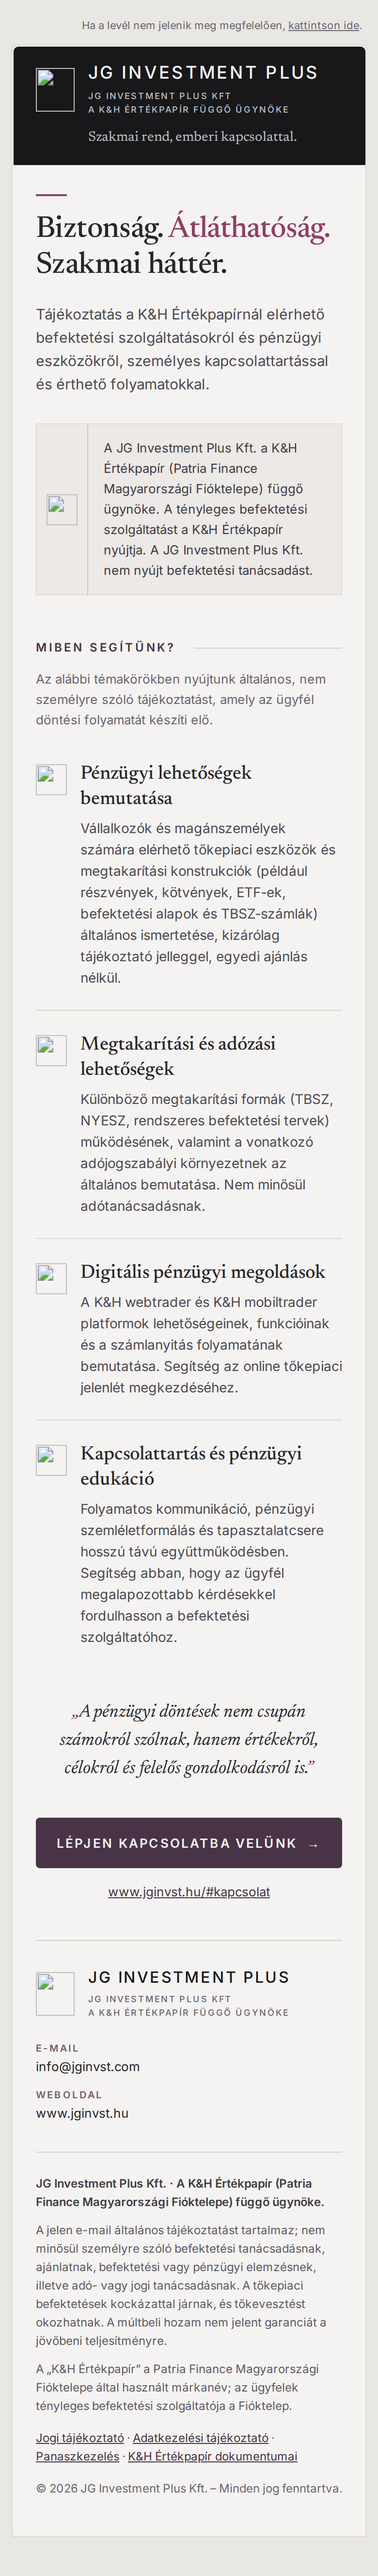
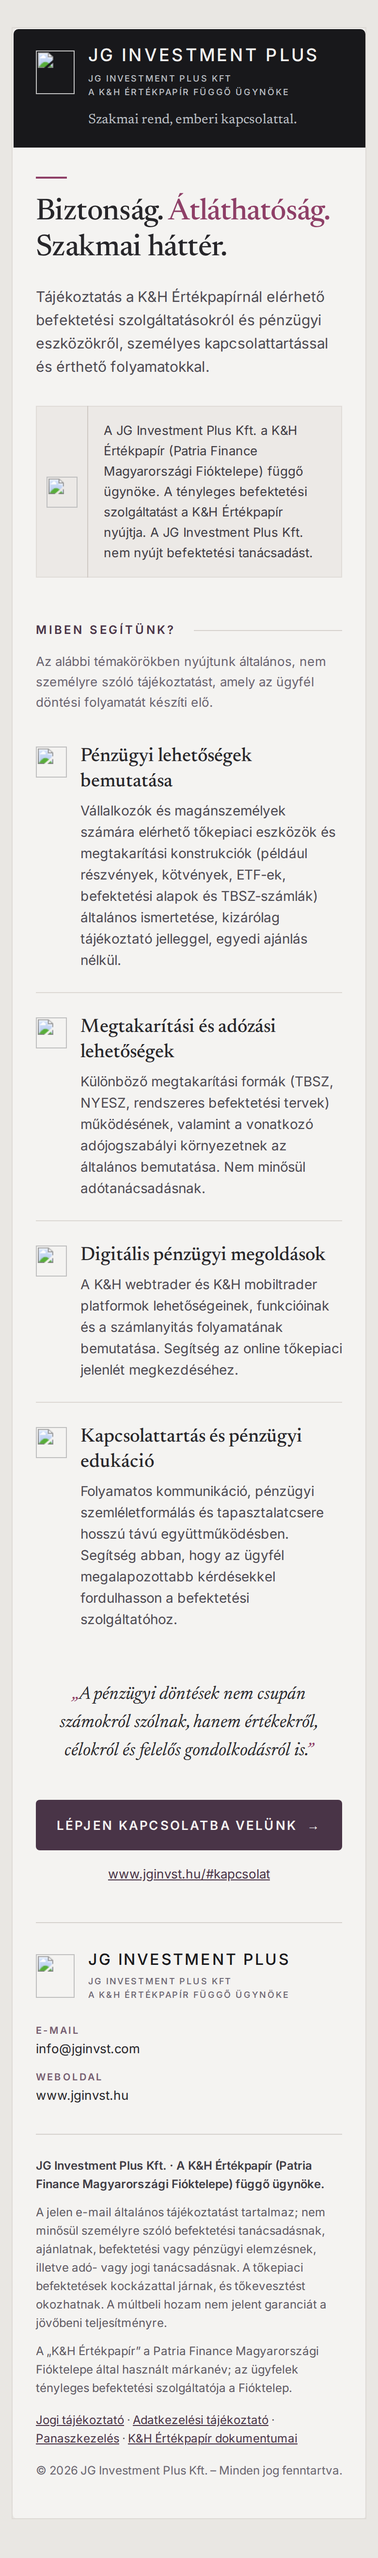
refactor(email): switch assets to cid inline images
The email no longer depends on images hosted on the website. Every <img>
now references a CID inline MIME part (cid:jgMarkPorcelain, cid:jgMarkCarbon,
cid:noticeIcon, cid:opportunitiesIcon, cid:savingsIcon, cid:digitalIcon,
cid:relationshipIcon); the locked map lives in emails/scripts/cid-assets.mjs.

The PNGs move from public/email/ to the private emails/assets/ (bytes
unchanged, still rendered from the canonical JG mark geometry), and the
public review page moves from public/email-preview/ to the local-only
emails/preview/. With no public online version, the view-in-browser line
and {{VIEW_ONLINE_URL}} are removed from the HTML and plain text; the rest
of the approved email is unchanged.

Claude-Session: https://claude.ai/code/session_01LVmGb4xvyEXar82wYXxNQR

diff --git a/emails/preview/jg-introduction-v2.preview.html b/emails/preview/jg-introduction-v2.preview.html
@@ -2,12 +2,12 @@
 <html lang="hu" xmlns="http://www.w3.org/1999/xhtml" xmlns:v="urn:schemas-microsoft-com:vml" xmlns:o="urn:schemas-microsoft-com:office:office">
 <head>
 <!--
-  REVIEW PREVIEW — generated by emails/scripts/build-preview.mjs. NOT the send template; do not send this file.
+  LOCAL PREVIEW — generated by emails/scripts/build-preview.mjs. NOT the send template; do not send or publish this file.
   JG Investment Plus — bemutatkozó e-mail v2
   STÁTUSZ: COMPLIANCE REVIEW REQUIRED BEFORE EXTERNAL USE
-  Tartalmi forrás: src/content/homepage.ts · Logó: JG Logo System v1.0 (public/email/*, a kanonikus SVG-ből renderelve)
-  Képek: /email/ (élesben csak a feature branch merge + production deploy után érhetők el)
-  Helyőrző küldés előtt: # — ld. emails/README.md
+  Tartalmi forrás: src/content/homepage.ts · Logó: JG Logo System v1.0 (a kanonikus SVG-ből renderelve)
+  Képek: CID inline MIME képek (cid:…) — emails/assets/, ld. emails/scripts/cid-assets.mjs. Nincs publikus képhosting.
+  Kézbesítés: Google Apps Script → Gmail PISZKOZAT → emberi ellenőrzés → kézi küldés (emails/apps-script/)
 -->
 <meta charset="utf-8">
 <meta name="robots" content="noindex, nofollow">
@@ -70,17 +70,10 @@
 <div role="article" aria-roledescription="email" aria-label="JG Investment Plus" lang="hu" style="background-color:#E9E7E3;">
 <table role="presentation" width="100%" cellpadding="0" cellspacing="0" border="0" style="background-color:#E9E7E3;">
 <tr>
-<td align="center" class="outer-pad" style="padding:0 16px 40px 16px;">
+<td align="center" class="outer-pad" style="padding:28px 16px 40px 16px;">
 
 <!--[if mso]><table role="presentation" width="640" cellpadding="0" cellspacing="0" border="0" align="center"><tr><td><![endif]-->
 <table role="presentation" class="wrap" width="640" cellpadding="0" cellspacing="0" border="0" align="center" style="width:640px; max-width:640px;">
-
-  <!-- ============ VIEW-IN-BROWSER ============ -->
-  <tr>
-    <td align="right" style="padding:18px 4px 12px 4px; font-family:Inter, Arial, Helvetica, sans-serif; font-size:11px; line-height:16px; color:#6A6670;">
-      Ha a levél nem jelenik meg megfelelően, <a href="#" style="color:#6A6670; text-decoration:underline;">kattintson ide</a>.
-    </td>
-  </tr>
 
   <tr>
     <td style="background-color:#F4F3F1; border:1px solid #DEDAD6; border-radius:6px; overflow:hidden;">
@@ -95,7 +88,7 @@
                 <table role="presentation" cellpadding="0" cellspacing="0" border="0">
                   <tr>
                     <td valign="middle" width="40" style="width:40px; vertical-align:middle;">
-                      <img src="/email/jg-mark-porcelain@2x.png" width="40" height="45" alt="" style="display:block; width:40px; height:45px; background-color:#18181B;">
+                      <img src="../assets/jg-mark-porcelain@2x.png" width="40" height="45" alt="" style="display:block; width:40px; height:45px; background-color:#18181B;">
                     </td>
                     <td width="14" style="width:14px; font-size:0; line-height:0;">&nbsp;</td>
                     <td valign="middle" style="vertical-align:middle;">
@@ -132,7 +125,7 @@
           <table role="presentation" width="100%" cellpadding="0" cellspacing="0" border="0" bgcolor="#ECE9E6" style="background-color:#ECE9E6; border:1px solid #E0DCD8; border-radius:4px;">
             <tr>
               <td class="notice-icon" width="70" align="center" valign="middle" style="width:70px; vertical-align:middle; padding:18px 0;">
-                <img src="/email/icons/notice.png" width="32" height="32" alt="" style="display:block; width:32px; height:32px; margin:0 auto;">
+                <img src="../assets/icons/notice.png" width="32" height="32" alt="" style="display:block; width:32px; height:32px; margin:0 auto;">
               </td>
               <td class="notice-text" valign="middle" style="vertical-align:middle; padding:16px 22px 16px 20px; border-left:1px solid #CFCAC5; font-family:Inter, Arial, Helvetica, sans-serif; font-size:13px; line-height:21px; color:#3F3C44;">
                 A JG Investment Plus Kft. a K&amp;H Értékpapír (Patria Finance Magyarországi Fióktelepe) függő ügynöke. A tényleges befektetési szolgáltatást a K&amp;H Értékpapír nyújtja. A JG Investment Plus Kft. nem nyújt befektetési tanácsadást.
@@ -166,7 +159,7 @@
                 <table role="presentation" width="100%" cellpadding="0" cellspacing="0" border="0">
                   <tr>
                     <td class="icon-col" width="58" valign="top" style="width:58px; vertical-align:top; padding-top:3px;">
-                      <img src="/email/icons/opportunities.png" width="32" height="32" alt="" style="display:block; width:32px; height:32px;">
+                      <img src="../assets/icons/opportunities.png" width="32" height="32" alt="" style="display:block; width:32px; height:32px;">
                     </td>
                     <td valign="top" style="vertical-align:top;">
                       <h2 class="serif" style="margin:0; font-family:Newsreader, Georgia, 'Times New Roman', serif; font-size:20px; line-height:26px; font-weight:500; color:#27262A;">Pénzügyi lehetőségek bemutatása</h2>
@@ -182,7 +175,7 @@
                 <table role="presentation" width="100%" cellpadding="0" cellspacing="0" border="0">
                   <tr>
                     <td class="icon-col" width="58" valign="top" style="width:58px; vertical-align:top; padding-top:3px;">
-                      <img src="/email/icons/savings.png" width="32" height="32" alt="" style="display:block; width:32px; height:32px;">
+                      <img src="../assets/icons/savings.png" width="32" height="32" alt="" style="display:block; width:32px; height:32px;">
                     </td>
                     <td valign="top" style="vertical-align:top;">
                       <h2 class="serif" style="margin:0; font-family:Newsreader, Georgia, 'Times New Roman', serif; font-size:20px; line-height:26px; font-weight:500; color:#27262A;">Megtakarítási és adózási lehetőségek</h2>
@@ -198,7 +191,7 @@
                 <table role="presentation" width="100%" cellpadding="0" cellspacing="0" border="0">
                   <tr>
                     <td class="icon-col" width="58" valign="top" style="width:58px; vertical-align:top; padding-top:3px;">
-                      <img src="/email/icons/digital.png" width="32" height="32" alt="" style="display:block; width:32px; height:32px;">
+                      <img src="../assets/icons/digital.png" width="32" height="32" alt="" style="display:block; width:32px; height:32px;">
                     </td>
                     <td valign="top" style="vertical-align:top;">
                       <h2 class="serif" style="margin:0; font-family:Newsreader, Georgia, 'Times New Roman', serif; font-size:20px; line-height:26px; font-weight:500; color:#27262A;">Digitális pénzügyi megoldások</h2>
@@ -214,7 +207,7 @@
                 <table role="presentation" width="100%" cellpadding="0" cellspacing="0" border="0">
                   <tr>
                     <td class="icon-col" width="58" valign="top" style="width:58px; vertical-align:top; padding-top:3px;">
-                      <img src="/email/icons/relationship.png" width="32" height="32" alt="" style="display:block; width:32px; height:32px;">
+                      <img src="../assets/icons/relationship.png" width="32" height="32" alt="" style="display:block; width:32px; height:32px;">
                     </td>
                     <td valign="top" style="vertical-align:top;">
                       <h2 class="serif" style="margin:0; font-family:Newsreader, Georgia, 'Times New Roman', serif; font-size:20px; line-height:26px; font-weight:500; color:#27262A;">Kapcsolattartás és pénzügyi edukáció</h2>
@@ -274,7 +267,7 @@
                 <table role="presentation" cellpadding="0" cellspacing="0" border="0">
                   <tr>
                     <td valign="middle" width="40" style="width:40px; vertical-align:middle;">
-                      <img src="/email/jg-mark-carbon@2x.png" width="40" height="45" alt="" style="display:block; width:40px; height:45px;">
+                      <img src="../assets/jg-mark-carbon@2x.png" width="40" height="45" alt="" style="display:block; width:40px; height:45px;">
                     </td>
                     <td width="14" style="width:14px; font-size:0; line-height:0;">&nbsp;</td>
                     <td valign="middle" style="vertical-align:middle;">

diff --git a/emails/jg-introduction-v2.html b/emails/jg-introduction-v2.html
@@ -4,9 +4,9 @@
 <!--
   JG Investment Plus — bemutatkozó e-mail v2
   STÁTUSZ: COMPLIANCE REVIEW REQUIRED BEFORE EXTERNAL USE
-  Tartalmi forrás: src/content/homepage.ts · Logó: JG Logo System v1.0 (public/email/*, a kanonikus SVG-ből renderelve)
-  Képek: https://www.jginvst.hu/email/ (élesben csak a feature branch merge + production deploy után érhetők el)
-  Helyőrző küldés előtt: {{VIEW_ONLINE_URL}} — ld. emails/README.md
+  Tartalmi forrás: src/content/homepage.ts · Logó: JG Logo System v1.0 (a kanonikus SVG-ből renderelve)
+  Képek: CID inline MIME képek (cid:…) — emails/assets/, ld. emails/scripts/cid-assets.mjs. Nincs publikus képhosting.
+  Kézbesítés: Google Apps Script → Gmail PISZKOZAT → emberi ellenőrzés → kézi küldés (emails/apps-script/)
 -->
 <meta charset="utf-8">
 <meta name="viewport" content="width=device-width, initial-scale=1">
@@ -68,17 +68,10 @@
 <div role="article" aria-roledescription="email" aria-label="JG Investment Plus" lang="hu" style="background-color:#E9E7E3;">
 <table role="presentation" width="100%" cellpadding="0" cellspacing="0" border="0" style="background-color:#E9E7E3;">
 <tr>
-<td align="center" class="outer-pad" style="padding:0 16px 40px 16px;">
+<td align="center" class="outer-pad" style="padding:28px 16px 40px 16px;">
 
 <!--[if mso]><table role="presentation" width="640" cellpadding="0" cellspacing="0" border="0" align="center"><tr><td><![endif]-->
 <table role="presentation" class="wrap" width="640" cellpadding="0" cellspacing="0" border="0" align="center" style="width:640px; max-width:640px;">
-
-  <!-- ============ VIEW-IN-BROWSER ============ -->
-  <tr>
-    <td align="right" style="padding:18px 4px 12px 4px; font-family:Inter, Arial, Helvetica, sans-serif; font-size:11px; line-height:16px; color:#6A6670;">
-      Ha a levél nem jelenik meg megfelelően, <a href="{{VIEW_ONLINE_URL}}" style="color:#6A6670; text-decoration:underline;">kattintson ide</a>.
-    </td>
-  </tr>
 
   <tr>
     <td style="background-color:#F4F3F1; border:1px solid #DEDAD6; border-radius:6px; overflow:hidden;">
@@ -93,7 +86,7 @@
                 <table role="presentation" cellpadding="0" cellspacing="0" border="0">
                   <tr>
                     <td valign="middle" width="40" style="width:40px; vertical-align:middle;">
-                      <img src="https://www.jginvst.hu/email/jg-mark-porcelain@2x.png" width="40" height="45" alt="" style="display:block; width:40px; height:45px; background-color:#18181B;">
+                      <img src="cid:jgMarkPorcelain" width="40" height="45" alt="" style="display:block; width:40px; height:45px; background-color:#18181B;">
                     </td>
                     <td width="14" style="width:14px; font-size:0; line-height:0;">&nbsp;</td>
                     <td valign="middle" style="vertical-align:middle;">
@@ -130,7 +123,7 @@
           <table role="presentation" width="100%" cellpadding="0" cellspacing="0" border="0" bgcolor="#ECE9E6" style="background-color:#ECE9E6; border:1px solid #E0DCD8; border-radius:4px;">
             <tr>
               <td class="notice-icon" width="70" align="center" valign="middle" style="width:70px; vertical-align:middle; padding:18px 0;">
-                <img src="https://www.jginvst.hu/email/icons/notice.png" width="32" height="32" alt="" style="display:block; width:32px; height:32px; margin:0 auto;">
+                <img src="cid:noticeIcon" width="32" height="32" alt="" style="display:block; width:32px; height:32px; margin:0 auto;">
               </td>
               <td class="notice-text" valign="middle" style="vertical-align:middle; padding:16px 22px 16px 20px; border-left:1px solid #CFCAC5; font-family:Inter, Arial, Helvetica, sans-serif; font-size:13px; line-height:21px; color:#3F3C44;">
                 A JG Investment Plus Kft. a K&amp;H Értékpapír (Patria Finance Magyarországi Fióktelepe) függő ügynöke. A tényleges befektetési szolgáltatást a K&amp;H Értékpapír nyújtja. A JG Investment Plus Kft. nem nyújt befektetési tanácsadást.
@@ -164,7 +157,7 @@
                 <table role="presentation" width="100%" cellpadding="0" cellspacing="0" border="0">
                   <tr>
                     <td class="icon-col" width="58" valign="top" style="width:58px; vertical-align:top; padding-top:3px;">
-                      <img src="https://www.jginvst.hu/email/icons/opportunities.png" width="32" height="32" alt="" style="display:block; width:32px; height:32px;">
+                      <img src="cid:opportunitiesIcon" width="32" height="32" alt="" style="display:block; width:32px; height:32px;">
                     </td>
                     <td valign="top" style="vertical-align:top;">
                       <h2 class="serif" style="margin:0; font-family:Newsreader, Georgia, 'Times New Roman', serif; font-size:20px; line-height:26px; font-weight:500; color:#27262A;">Pénzügyi lehetőségek bemutatása</h2>
@@ -180,7 +173,7 @@
                 <table role="presentation" width="100%" cellpadding="0" cellspacing="0" border="0">
                   <tr>
                     <td class="icon-col" width="58" valign="top" style="width:58px; vertical-align:top; padding-top:3px;">
-                      <img src="https://www.jginvst.hu/email/icons/savings.png" width="32" height="32" alt="" style="display:block; width:32px; height:32px;">
+                      <img src="cid:savingsIcon" width="32" height="32" alt="" style="display:block; width:32px; height:32px;">
                     </td>
                     <td valign="top" style="vertical-align:top;">
                       <h2 class="serif" style="margin:0; font-family:Newsreader, Georgia, 'Times New Roman', serif; font-size:20px; line-height:26px; font-weight:500; color:#27262A;">Megtakarítási és adózási lehetőségek</h2>
@@ -196,7 +189,7 @@
                 <table role="presentation" width="100%" cellpadding="0" cellspacing="0" border="0">
                   <tr>
                     <td class="icon-col" width="58" valign="top" style="width:58px; vertical-align:top; padding-top:3px;">
-                      <img src="https://www.jginvst.hu/email/icons/digital.png" width="32" height="32" alt="" style="display:block; width:32px; height:32px;">
+                      <img src="cid:digitalIcon" width="32" height="32" alt="" style="display:block; width:32px; height:32px;">
                     </td>
                     <td valign="top" style="vertical-align:top;">
                       <h2 class="serif" style="margin:0; font-family:Newsreader, Georgia, 'Times New Roman', serif; font-size:20px; line-height:26px; font-weight:500; color:#27262A;">Digitális pénzügyi megoldások</h2>
@@ -212,7 +205,7 @@
                 <table role="presentation" width="100%" cellpadding="0" cellspacing="0" border="0">
                   <tr>
                     <td class="icon-col" width="58" valign="top" style="width:58px; vertical-align:top; padding-top:3px;">
-                      <img src="https://www.jginvst.hu/email/icons/relationship.png" width="32" height="32" alt="" style="display:block; width:32px; height:32px;">
+                      <img src="cid:relationshipIcon" width="32" height="32" alt="" style="display:block; width:32px; height:32px;">
                     </td>
                     <td valign="top" style="vertical-align:top;">
                       <h2 class="serif" style="margin:0; font-family:Newsreader, Georgia, 'Times New Roman', serif; font-size:20px; line-height:26px; font-weight:500; color:#27262A;">Kapcsolattartás és pénzügyi edukáció</h2>
@@ -272,7 +265,7 @@
                 <table role="presentation" cellpadding="0" cellspacing="0" border="0">
                   <tr>
                     <td valign="middle" width="40" style="width:40px; vertical-align:middle;">
-                      <img src="https://www.jginvst.hu/email/jg-mark-carbon@2x.png" width="40" height="45" alt="" style="display:block; width:40px; height:45px;">
+                      <img src="cid:jgMarkCarbon" width="40" height="45" alt="" style="display:block; width:40px; height:45px;">
                     </td>
                     <td width="14" style="width:14px; font-size:0; line-height:0;">&nbsp;</td>
                     <td valign="middle" style="vertical-align:middle;">
